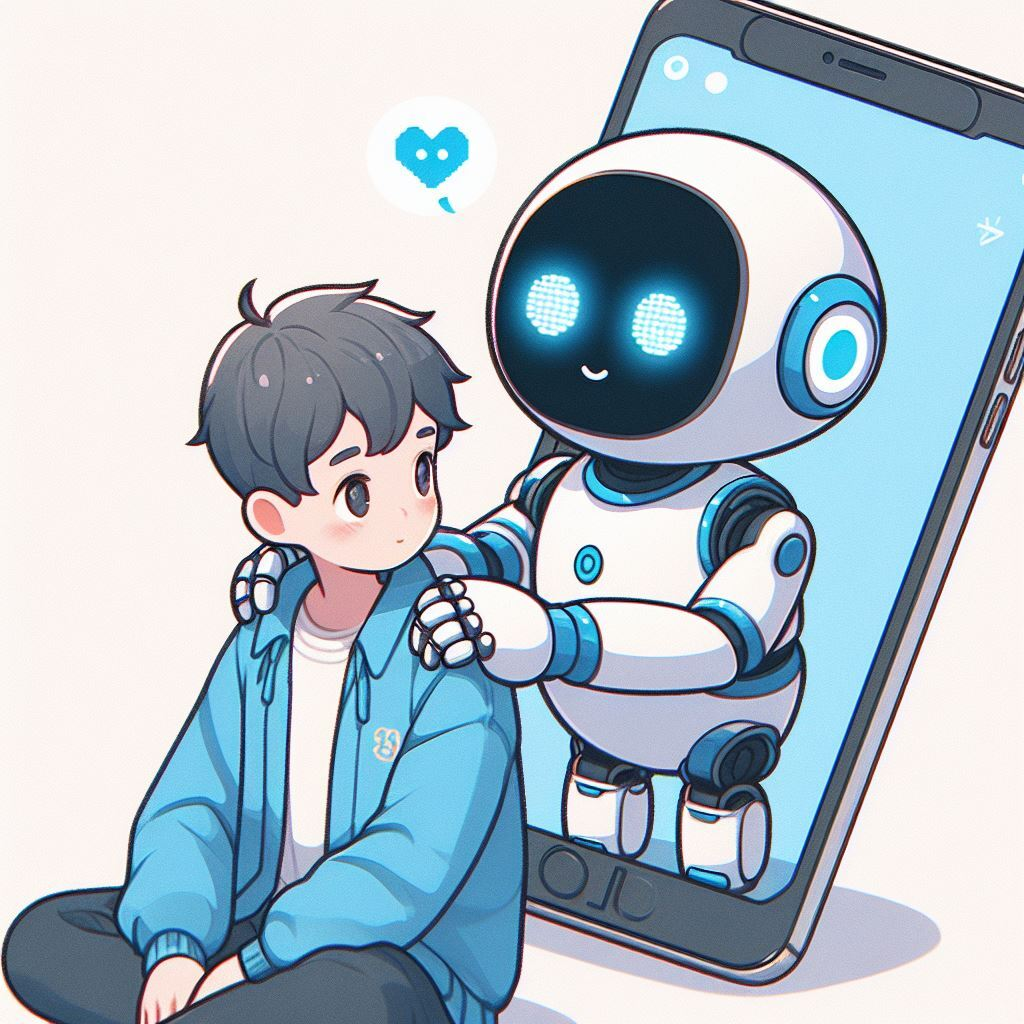
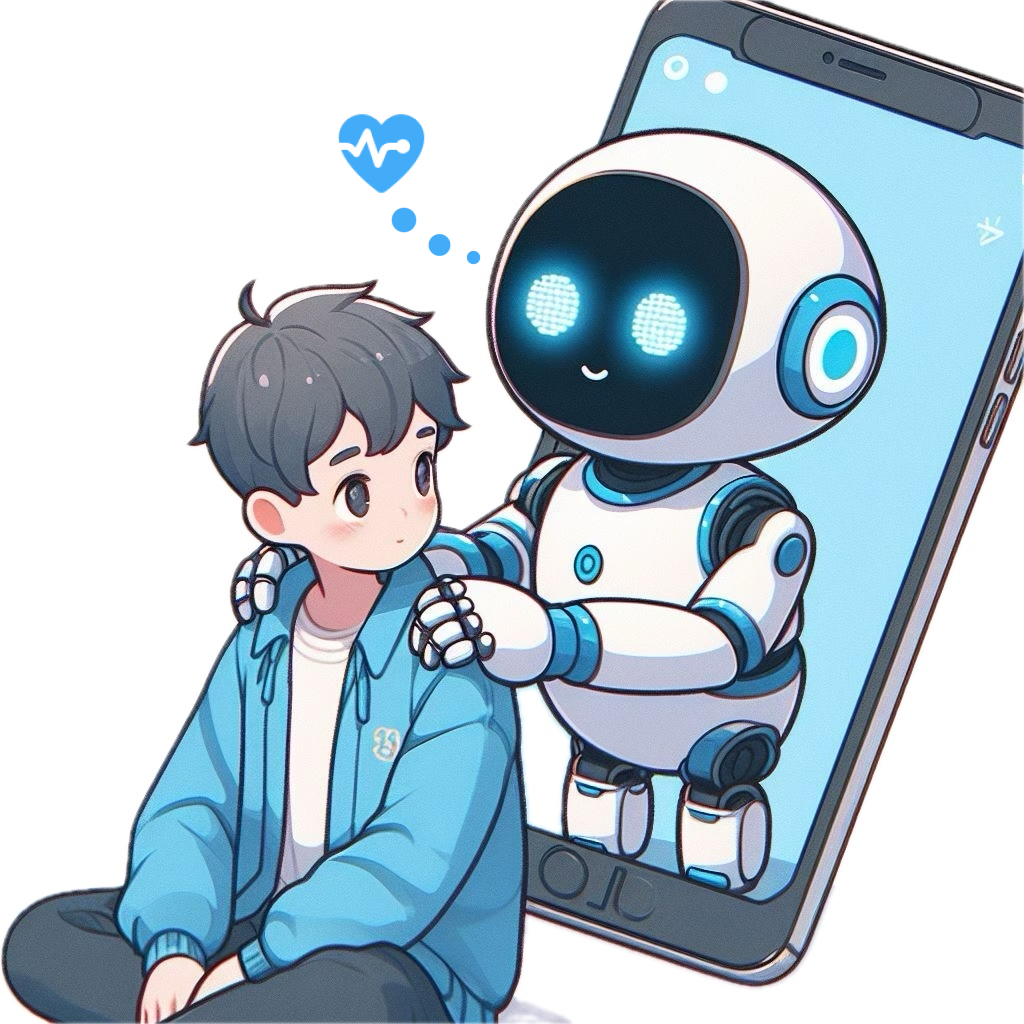
design #스타트메인 한충희 [240221] -배경삽입

diff --git a/src/main/reactjs/src/routers/RouterStartMain.js b/src/main/reactjs/src/routers/RouterStartMain.js
@@ -5,6 +5,7 @@ import logo from '../image/todac_logo_temp.png';
 import { useNavigate } from 'react-router-dom';
 import AOS from 'aos';
 import 'aos/dist/aos.css';
+import background from "../image/bg_startmain.jpg";
 
 const RouterStartMain = () => {
     const nav = useNavigate(); // TODO : 임시로 만든 것으로, 아래 버튼 삭제 시 같이 지우기
@@ -37,7 +38,7 @@ const RouterStartMain = () => {
                 <div className='startpage'>
 
                 <div className='backgrounds overlay'>
-                    <div className='background' data-aos='fade-in' data-aos-duration='1500' data-aos-anchor='.section--hero' style={{backgroundImage: `url('../image/bg_startmain.jpg')`}}></div>
+                    <div className='background' data-aos='fade-in' data-aos-duration='1500' data-aos-anchor='.section--hero' style={{backgroundImage: `url(${background})`,backgroundSize: 'contain', backgroundRepeat: 'no-repeat', backgroundPosition: 'center 87%'}}></div>
                 </div>
 
                 <header className='hero' data-aos='fade-in' data-aos-duration='1500'>
@@ -78,7 +79,7 @@ const RouterStartMain = () => {
                             <div className='code code--small code--right' data-aos='fade-down-left'>
                                 1
                             </div>
-                            <div className='code code--small code--left mb_150i' data-aos='fade-up'>
+                            <div className='code code--small code--left mb_300i' data-aos='fade-up'>
                                 1
                             </div>
                         </div>

diff --git a/src/main/reactjs/src/components/CommonStyle.css b/src/main/reactjs/src/components/CommonStyle.css
@@ -356,7 +356,7 @@ span.header-clickable {
     bottom: 0;
     top: 0;
     background: #fff;
-    opacity: 0.8; }
+    opacity: 0.3; }
   
   /**
    * Hero
@@ -527,6 +527,6 @@ span.header-clickable {
     background: #0E0F34;
     padding: 20px 0 40px 0; }
   
-    .mb_150i{
-        margin-bottom: 150px !important;
+    .mb_300i{
+        margin-bottom: 400px !important;
     }
